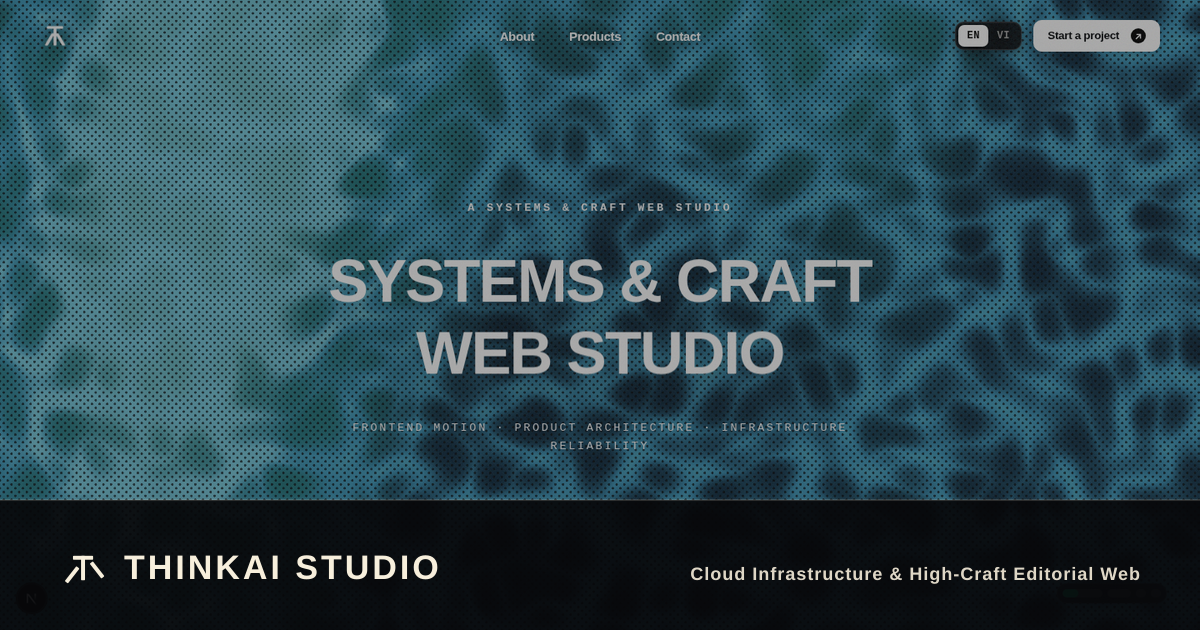
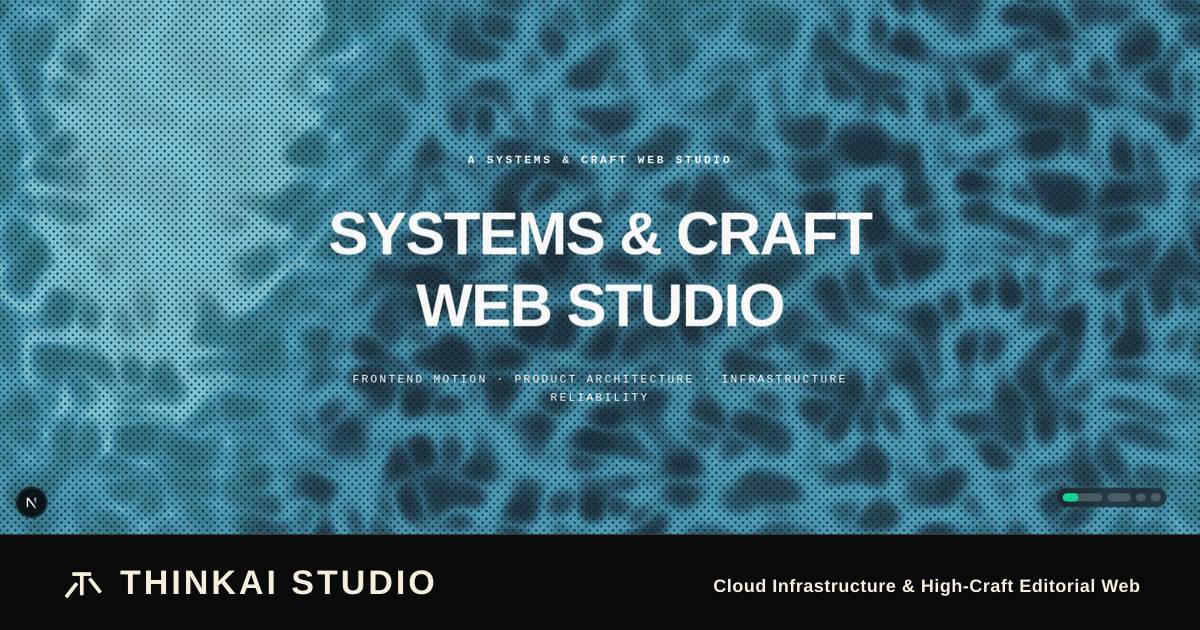
fix(seo): re-render og image to RGB 356KB without scrim, add 96px brutalist band and remove unused gpu class

diff --git a/src/components/tai-ui/skills-stack.css b/src/components/tai-ui/skills-stack.css
@@ -1,11 +1,4 @@
-/* Skills Stack & Craft - GPU Acceleration and Micro-interactions */
-
-.skills-gpu-accelerated {
-  will-change: transform, opacity;
-  transform: translateZ(0);
-  backface-visibility: hidden;
-  -webkit-font-smoothing: subpixel-antialiased;
-}
+/* Skills Stack & Craft - Card Surfaces & Micro-interactions */
 
 .skills-card-surface {
   background-color: #111116;
